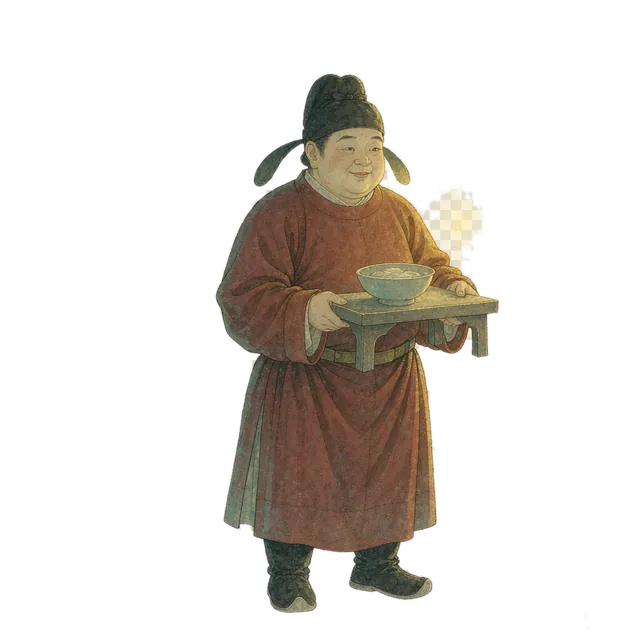
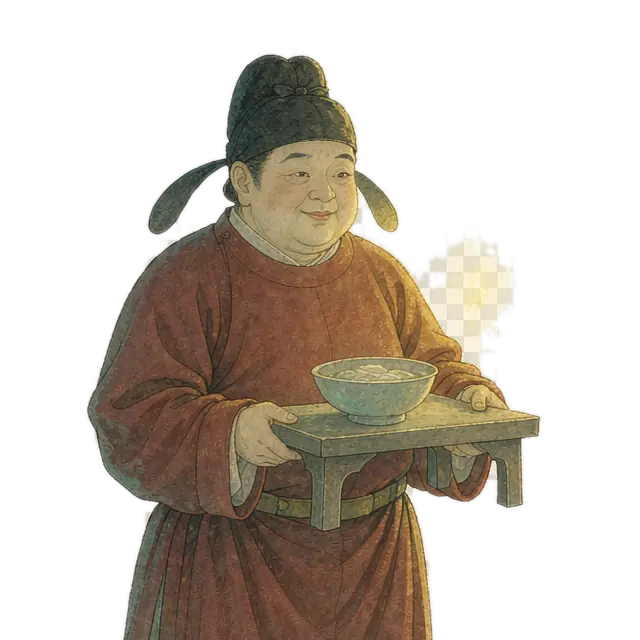
fix(portraits): 尚食令半身裁切重入仓 + 统一重测 6 张 FIT
- 尚食令（shangling/shangshiling）首版实为全身，违反 B 级半身 spec，
  按裁窗 (258,64,898,704) 裁至胸腹重入仓（tq_chars_shangshiling_a1_final.webp）。
- 用 polish_reg6.fit_measure 同一方法（头窗 20%）对 6 张最终 packed 重测 FIT，
  修正 shangshiling_a1 为裁后半身值（cx0.430/headW0.259/y0.080），
  并补入 5 张重生条目 fanzhi/ligu/wangpu2/lichongjin/shaonian。
- 未提交：assets.js/frag.js（轨③ 内壁静态帧，非人物立绘）；
  5 张重生 webp 仍 untracked 待用户过目。

diff --git a/js/portraits.js b/js/portraits.js
@@ -487,14 +487,13 @@
   };
 
   /* ============ 真实素材注册（素材入包即自动升级） ============ */
-  /* 当前 15 张已入仓且已过目（10-28 用户审核通过，commit 入库）：
+  /* 当前 20 张已入仓且已过目：
    *   3 张锚点：郭荣(a1) / 女官 / 史官（双玩家 A/B 线基础形象）；
-   *   12 张审核通过：王朴/张永德/赵匡胤/殷崇义（A 级服色 v2）＋ 符后/郭威/冯道（回忆语境像）
-   *     ＋ 司正/尚宫/起居郎/尚食令/郭宗训（B 级）。12 张均从生图仓 packed/ 复制入 assets/chars/。
-   * 其余角色走本文件矢量绘像，待重生/复核：
-   *   - 4 张待重生（fanzhi/ligu/wangpu2/lichongjin）：10-28 用户过目指出细节问题（李重进取甲、
-   *     范质被画成烛台、李谷执笏不举觞、王溥长揖不举觞），已改 prompts 待重生，未入仓。
-   *   - 少年郭荣（shaonian）待重生：用户要求由手提花篮改肩挑担子，未入仓。
+   *   12 张 10-28 审核入库（commit 478724c）：王朴/张永德/赵匡胤/殷崇义（A 级服色 v2）
+   *     ＋ 符后/郭威/冯道（回忆语境像）＋ 司正/尚宫/起居郎/尚食令/郭宗训（B 级）；
+   *   5 张 10-28 晚重生入库：范质（禁烛火）/李谷（双手捧觞）/王溥（单手举觞）/李重进（去甲）
+   *     ＋ 少年郭荣（肩挑茶担，替换手提花篮旧版）。
+   *   尚食令 10-28 晚由全身版裁切为半身重入仓（FIT 已按裁切版重测）。
    *   ★键名坑：生图侧 prompts.py 用 `shangling`，运行时图键是 `shangshiling`
    *     （prompts 键按「尚食令」字面，运行时按 FIG 定义），入包脚本里做了映射，
    *     这里必须写运行时键，否则 TQA.resolve 找不到文件、静默回落矢量像。 */
@@ -524,9 +523,15 @@
     'zhaokuangyin_a1': { cx: 0.552, ratio: 0.667, headW: 0.199, y0: 0.072 },
     'qijulang_a1':     { cx: 0.488, ratio: 1,     headW: 0.216, y0: 0.041 },
     'shanggong_a1':    { cx: 0.517, ratio: 1,     headW: 0.194, y0: 0.078 },
-    'shangshiling_a1': { cx: 0.557, ratio: 1,     headW: 0.219, y0: 0.111 },
+    'shangshiling_a1': { cx: 0.430, ratio: 1,     headW: 0.259, y0: 0.080 },
     'sizheng_a1':      { cx: 0.523, ratio: 1,     headW: 0.183, y0: 0.141 },
-    'zongxun_a1':      { cx: 0.484, ratio: 1,     headW: 0.280, y0: 0.010 }
+    'zongxun_a1':      { cx: 0.484, ratio: 1,     headW: 0.280, y0: 0.010 },
+    /* —— 10-28 晚重生（B 级半身，640²；shaonian 为 1024×1536 全身）统一重测 —— */
+    'fanzhi_a1':       { cx: 0.479, ratio: 1,     headW: 0.237, y0: 0.037 },
+    'ligu_a1':         { cx: 0.479, ratio: 1,     headW: 0.198, y0: 0.055 },
+    'wangpu2_a1':      { cx: 0.546, ratio: 1,     headW: 0.220, y0: 0.048 },
+    'lichongjin_a1':   { cx: 0.485, ratio: 1,     headW: 0.202, y0: 0.027 },
+    'shaonian_a1':     { cx: 0.556, ratio: 0.667, headW: 0.160, y0: 0.064 }
   };
   /* 归一化参数（[PLACEHOLDER] 有依据但需真机微调）：
    * HEAD_TARGET 0.235 → 槽宽 329 时头宽 ≈ 77px（手机上一张脸的可辨识下限之上）；
@@ -596,6 +601,7 @@
     guorong: 'a1', nvguan: 'a1', shiguan: 'a1',
     wangpu: 'a1', zhangyongde: 'a1', zhaokuangyin: 'a1', yinchongyi: 'a1',
     fuhou: 'a1', guowei: 'a1', fengdao: 'a1',
+    fanzhi: 'a1', ligu: 'a1', wangpu2: 'a1', lichongjin: 'a1', shaonian: 'a1',
     sizheng: 'a1', shanggong: 'a1', qijulang: 'a1', shangshiling: 'a1', zongxun: 'a1'
   };
   (function register() {
